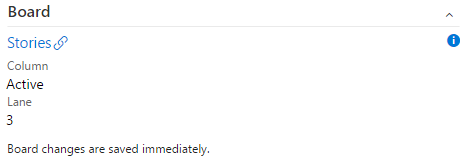
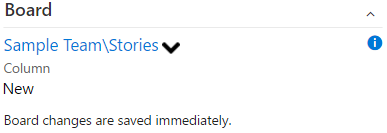
v2.4.35 Release select team

diff --git a/details.md b/details.md
@@ -30,9 +30,8 @@ Within the same Weblayout choose a Section element and add
 <GroupContribution Label="Board" Id="ottostreifel.board-group.board-work-item-form-group"/>
 ```
 
-
-
 # Change Log
+(04/24/17) 2.4.35 Allow team to be selected from form  
 (04/22/17) 2.4.1 Bulk edit of from queries and backlogs views  
 (04/08/17) 2.3.51 Info callout  
 (04/08/17) 2.3.37 Update styling  
